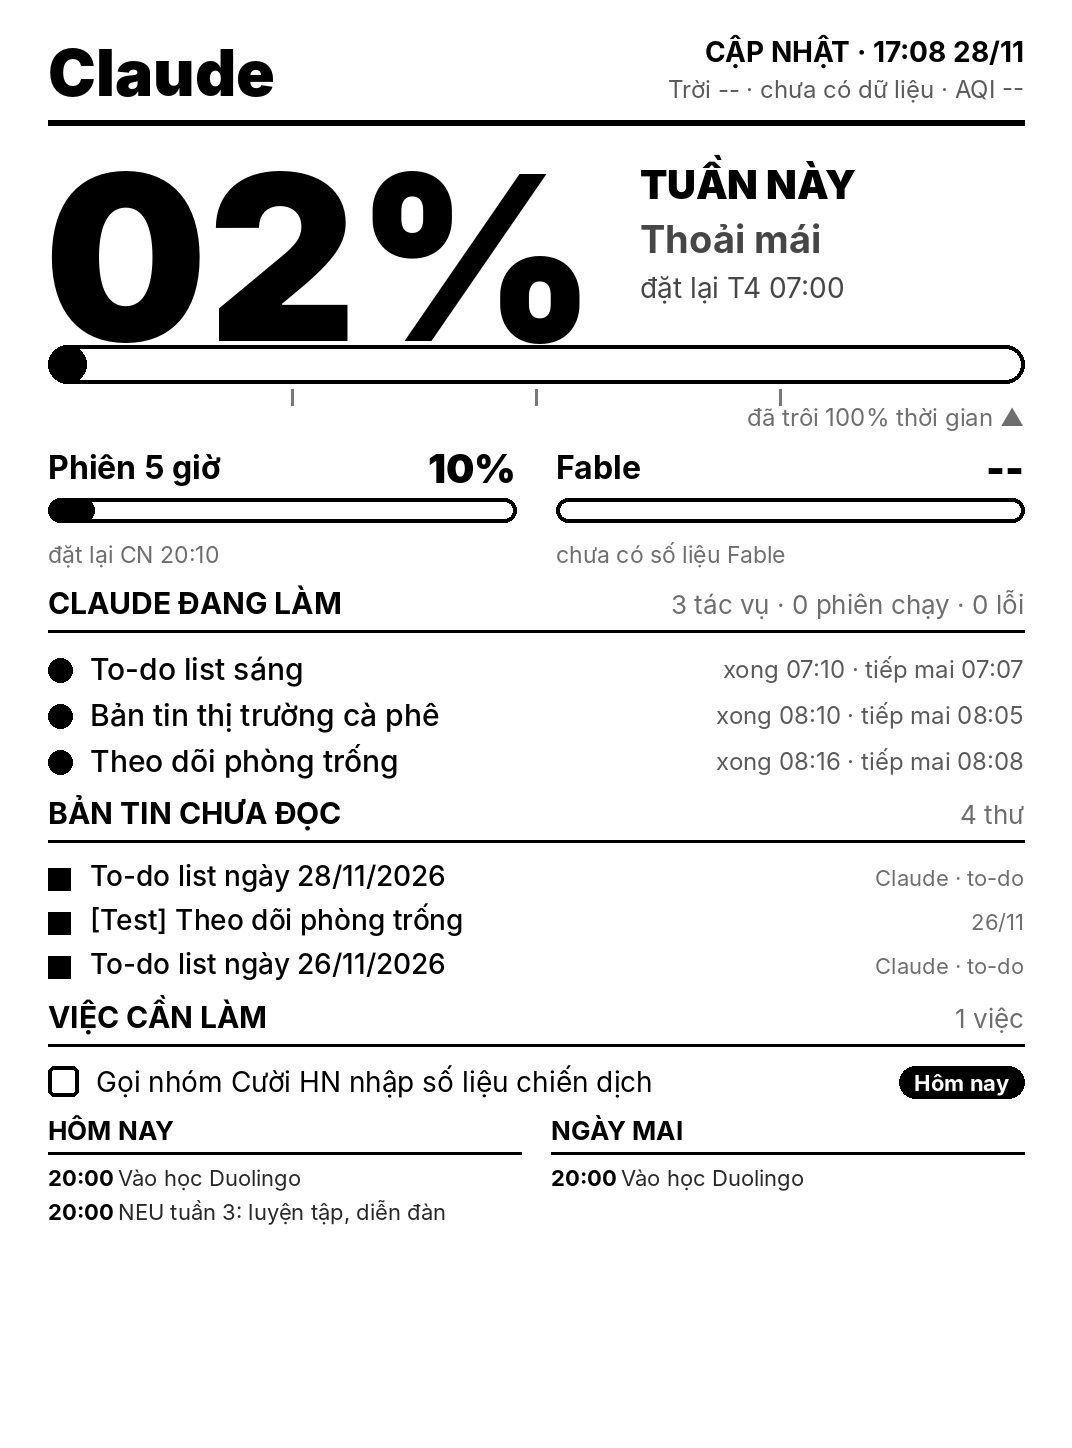
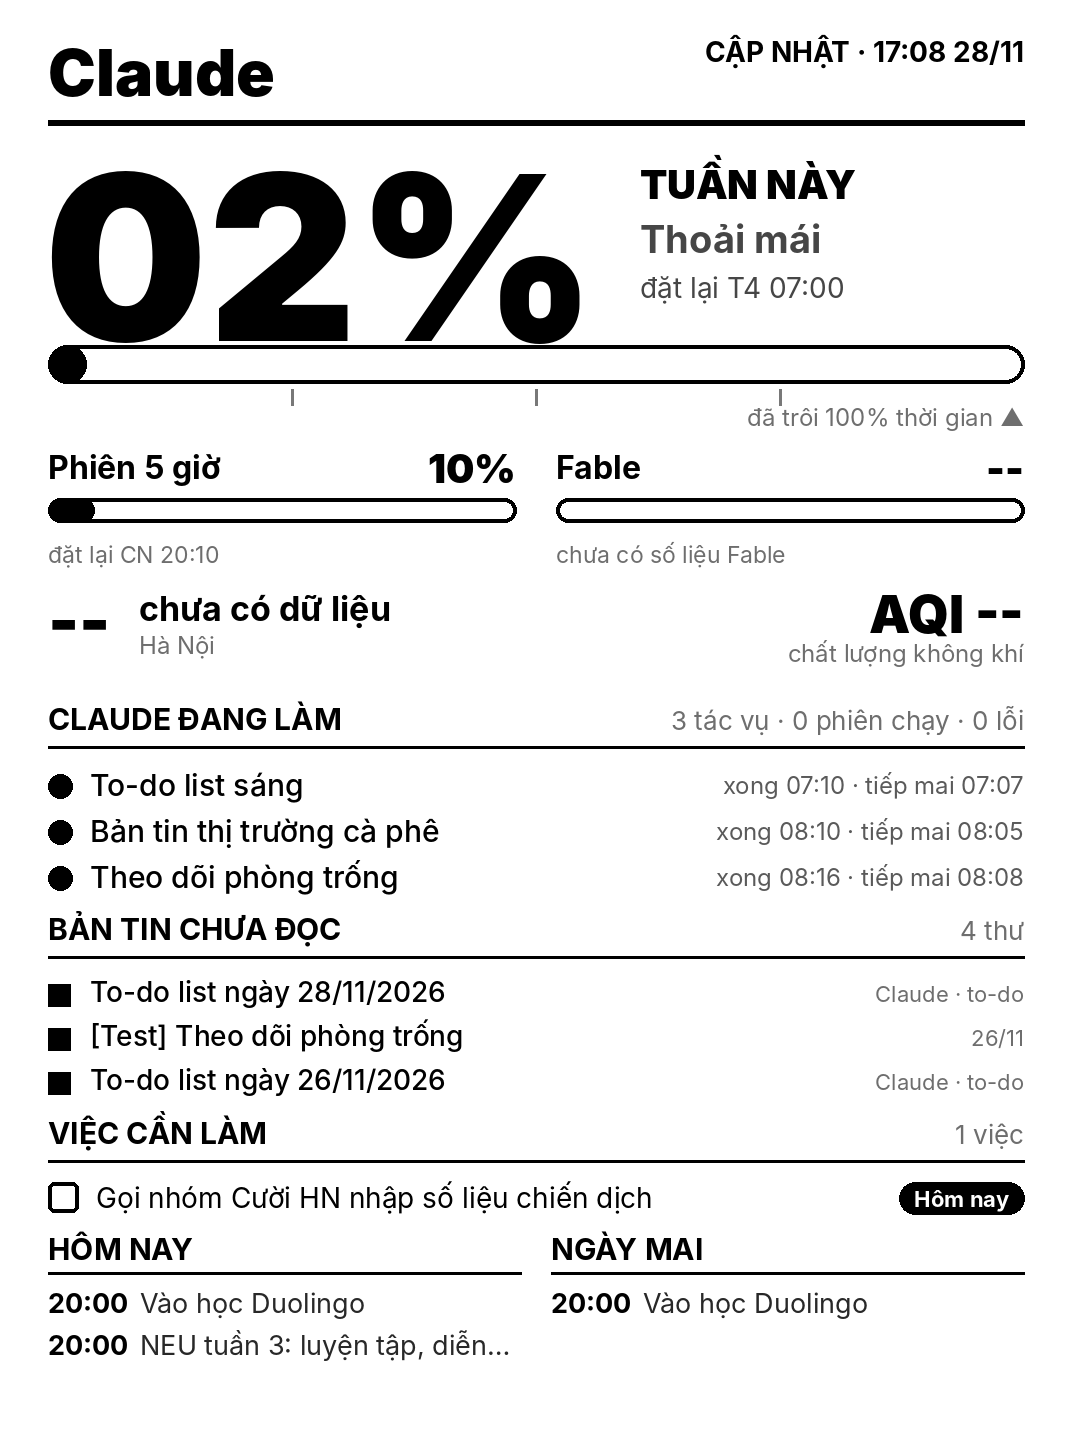
Bố cục: thời tiết thành dải lớn, lịch to hơn, bớt khoảng trống cuối
Claude-Session: https://claude.ai/code/session_013jX4KBNibp4sV2oJ5TYopQ

Changed region(s): [[0.0308, 0.404, 0.9543, 0.9323], [0.4002, 0.9012, 0.431, 0.9323]]

diff --git a/render.py b/render.py
@@ -25,7 +25,6 @@ def head(y, title, right=""):
 u = data["usage"]
 d.text((M, 34), "Claude", font=F("Black", 64), fill=0)
 rtext(W - M, 34, f"CẬP NHẬT · {data['updated']}", F("Bold", 28))
-wx = data["weather"]; rtext(W - M, 74, f"Trời {wx['temp']} · {wx['desc']} · AQI {wx['aqi']}", F("Regular", 24), 90)
 rule(120, 6)
 d.text((M - 4, 118), f"{u['week_pct']:02d}%", font=F("Black", 230), fill=0)
 x2 = 640
@@ -42,6 +41,14 @@ d.text((x3, y), "Fable", font=F("Bold", 32), fill=0)
 fp = u["fable_pct"]; rtext(x3 + half, y - 4, "--" if fp is None else f"{fp}%", F("Black", 40))
 bar(x3, y + 50, half, 24, fp or 0); d.text((x3, y + 92), "chưa có số liệu Fable" if fp is None else "", font=F("Regular", 23), fill=110)
 y = 584
+wx = data["weather"]
+d.text((M, y - 4), f"{wx['temp']}", font=F("Black", 66), fill=0)
+tx = M + d.textlength(f"{wx['temp']}", font=F("Black", 66)) + 28
+d.text((tx, y + 4), fit(wx["desc"], F("Bold", 34), 420), font=F("Bold", 34), fill=0)
+d.text((tx, y + 46), wx.get("place", "Hà Nội"), font=F("Regular", 24), fill=110)
+rtext(W - M, y - 2, f"AQI {wx['aqi']}", F("Black", 52))
+rtext(W - M, y + 54, wx.get("aqi_label", "chất lượng không khí"), F("Regular", 24), 110)
+y += 116
 # Claude jobs
 s = data["sessions"]; jobs = data["claude_jobs"]
 bad = sum(1 for j in jobs if j["state"] != "ok")
@@ -73,10 +80,10 @@ y += 10
 col = (W - 2 * M - 30) // 2
 for i, (title, ev) in enumerate((("HÔM NAY", data["today"]), ("NGÀY MAI", data["tomorrow"]))):
     x = M + i * (col + 30); yy = y
-    d.text((x, yy), title, font=F("Bold", 26), fill=0); d.rectangle([x, yy + 38, x + col, yy + 40], fill=0); yy += 50
-    for e in ev[:2]:
-        d.text((x, yy), e["time"], font=F("Bold", 22), fill=0)
-        d.text((x + 70, yy), fit(e["t"], F("Regular", 22), col - 74), font=F("Regular", 22), fill=40); yy += 34
-    if not ev: d.text((x, yy), "Không có sự kiện", font=F("Regular", 22), fill=120)
+    d.text((x, yy), title, font=F("Bold", 30), fill=0); d.rectangle([x, yy + 42, x + col, yy + 44], fill=0); yy += 56
+    for e in ev[:3]:
+        d.text((x, yy), e["time"], font=F("Bold", 27), fill=0)
+        d.text((x + 92, yy), fit(e["t"], F("Regular", 27), col - 96), font=F("Regular", 27), fill=40); yy += 42
+    if not ev: d.text((x, yy), "Không có sự kiện", font=F("Regular", 27), fill=120)
 w = data["weather"]
 im.save(out); print("ok", out)
